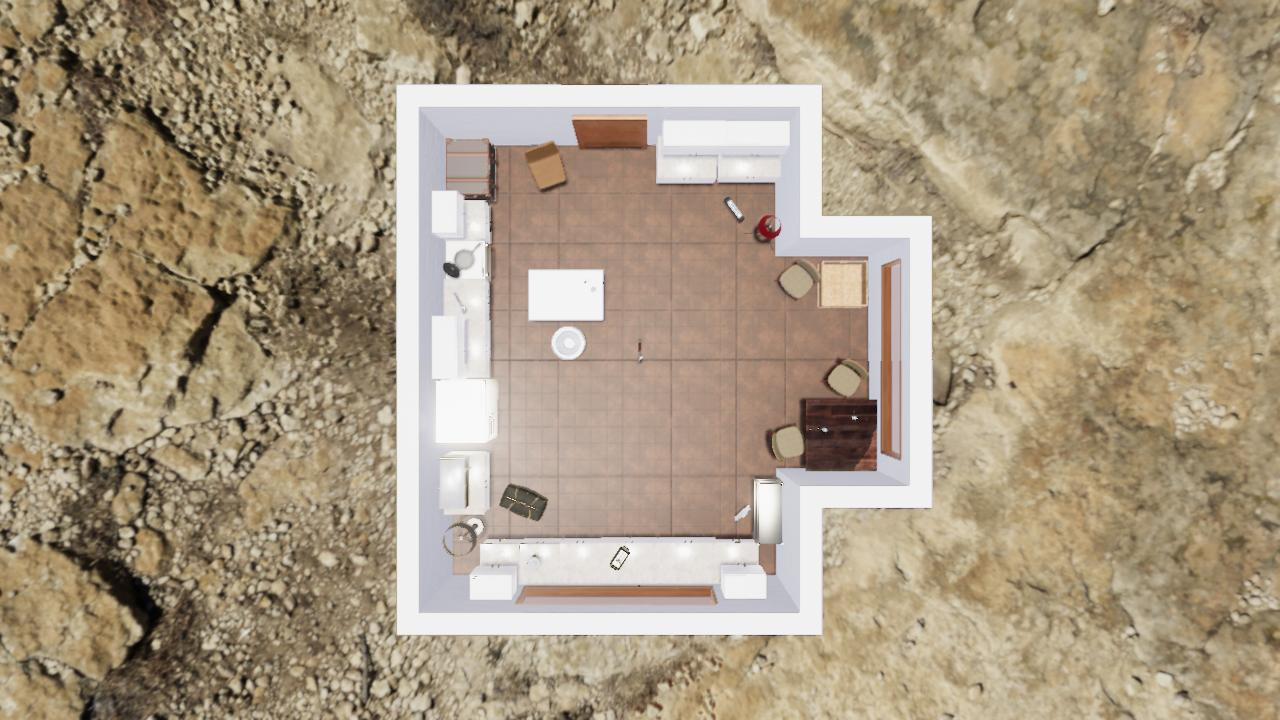
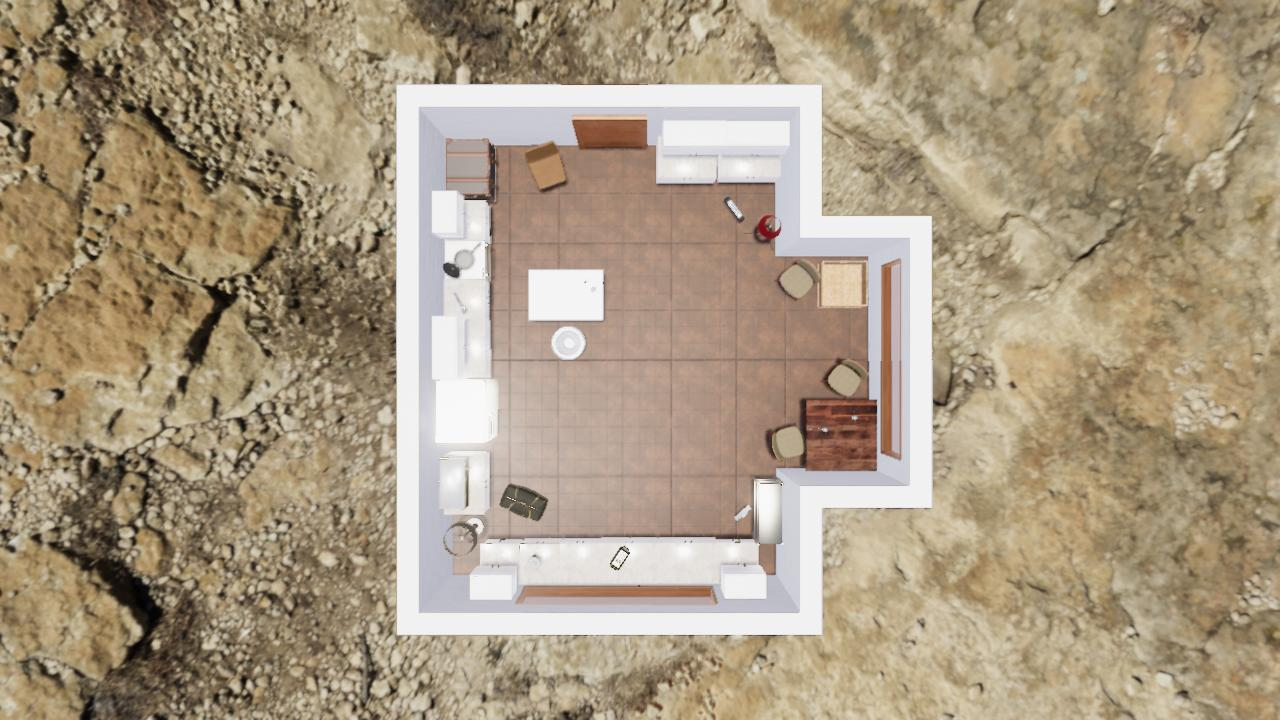
fixed occupancy map

Changed region(s): [[0.625, 0.55, 0.6875, 0.6722]]

diff --git a/dataset_generation/init_data.py b/dataset_generation/init_data.py
@@ -71,7 +71,7 @@ class InitData:
         return commands
 
     @staticmethod
-    def get_init_data(scene: str, layout: int, occupancy_map: bool) -> List[MultiModalObjectInitData]:
+    def get_init_data(scene: str, layout: int, occupancy_map: str) -> None:
         """
         Create object initialization data and update drop zone data.
 
@@ -80,9 +80,13 @@ class InitData:
         :param scene: The name of the scene.
         :param layout: The layout index.
         :param occupancy_map: If True, generate an occupancy map.
-
-        :return: A list of [`MultiModalObjectInitData`](../api/multimodal_object_init_data.md).
         """
+
+        # Update an occupancy map.
+        if occupancy_map == "update":
+            m = OccupancyMapper()
+            m.create(scene=scene, layout=layout, image_dir=Path("../doc/images"))
+            return
 
         bucket: str = "https://tdw-public.s3.amazonaws.com"
         # Update the scene library.
@@ -118,7 +122,8 @@ class InitData:
                 if name in replacements:
                     name = replacements[name]
                 # Get the objects that are hanging from the wall and make them kinematic.
-                if "cabinet" in name or "painting" in name or "_rug" in name or name == "fruit_basket":
+                if "cabinet" in name or "painting" in name or "_rug" in name or "fridge" in name \
+                        or name == "fruit_basket" or "floor_lamp" in name:
                     kinematic = True
                 else:
                     kinematic = False
@@ -150,10 +155,10 @@ class InitData:
         model_lib.write()
 
         # Generate an occupancy map.
-        if occupancy_map:
+        if occupancy_map == "create":
             m = OccupancyMapper()
             m.create(scene=scene, layout=layout, image_dir=Path("../doc/images"))
-        return objects
+        return
 
 
 if __name__ == "__main__":
@@ -164,7 +169,11 @@ if __name__ == "__main__":
                                                                   "Don't update the init data.")
     parser.add_argument("--drop_zones", action="store_true", help="If included, show the drop zones. Ignored unless "
                                                                   "there is a `--load_scene` flag present.")
-    parser.add_argument("--no_occupancy_map", action="store_true", help="If included, don't generate an occupancy map.")
+    parser.add_argument("--occupancy_map", type=str, choices=["create", "update", "skip"], default="create",
+                        help="Create an occupancy map. "
+                             "create=Create a new occupancy map. "
+                             "update=Use existing init data to update an occupancy map. "
+                             "skip=Don't create an occupancy map.")
     args = parser.parse_args()
     if args.load_scene:
         c = Controller(launch_build=False)
@@ -173,4 +182,4 @@ if __name__ == "__main__":
                                           drop_zones=args.drop_zones is not None))
         c.communicate(cmds)
     else:
-        InitData.get_init_data(scene=args.scene, layout=args.layout, occupancy_map=not args.no_occupancy_map)
+        InitData.get_init_data(scene=args.scene, layout=args.layout, occupancy_map=args.occupancy_map)

diff --git a/dataset_generation/rehearsal.py b/dataset_generation/rehearsal.py
@@ -129,11 +129,11 @@ class Rehearsal(Controller):
                                      rotation={"x": float(self.rng.uniform(-360, 360)),
                                                "y": float(self.rng.uniform(-360, 360)),
                                                "z": float(self.rng.uniform(-360, 360))},
-                                     kinematic=True)
+                                     kinematic=False)
         # Define the drop force.
-        force = {"x": float(self.rng.uniform(-0.2, 0.2)),
+        force = {"x": float(self.rng.uniform(-0.1, 0.1)),
                  "y": float(self.rng.uniform(-0.05, 0.05)),
-                 "z": float(self.rng.uniform(-0.2, 0.2))}
+                 "z": float(self.rng.uniform(-0.1, 0.1))}
         # Add the initialization commands.
         self.drop_object, object_commands = a.get_commands()
         commands.extend(object_commands)
@@ -170,6 +170,8 @@ class Rehearsal(Controller):
         for i, drop_zone in enumerate(self.drop_zones):
             if drop_zone.center[1] + 0.1 >= p_0[1] >= drop_zone.center[1] and \
                     np.linalg.norm(p_0 - drop_zone.center) < drop_zone.radius:
+                # In dataset generation, we don't want the object to fall right away, so we make it kinematic.
+                a.kinematic = True
                 return DatasetTrial(init_data=a, force=force, position=TDWUtils.array_to_vector3(p_0)), i
         return None, -1
 
@@ -227,7 +229,10 @@ class Rehearsal(Controller):
         # Remember all good drops.
         dataset_trials: List[DatasetTrial] = list()
         drop_zone_indices: List[int] = list()
+        count: int = 0
         while len(dataset_trials) < num_trials:
+            # Sometimes it's nice to watch the numbers go up.
+            pbar.set_description(str(count))
             # Do a trial.
             dataset_trial, drop_zone_index = self.do_trial()
             # If we got an object back, then this was a good trial.
@@ -236,6 +241,7 @@ class Rehearsal(Controller):
                 dataset_trials.append(dataset_trial)
                 drop_zone_indices.append(drop_zone_index)
                 pbar.update(1)
+            count += 1
         pbar.close()
         # Write the results to disk.
         REHEARSAL_DIRECTORY.joinpath(filename).write_text(dumps(dataset_trials, cls=Encoder), encoding="utf-8")
